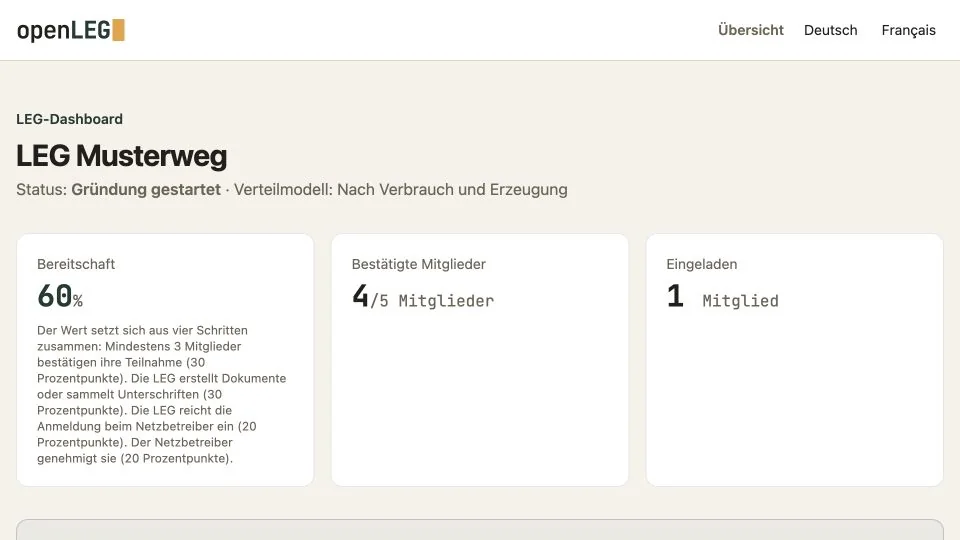
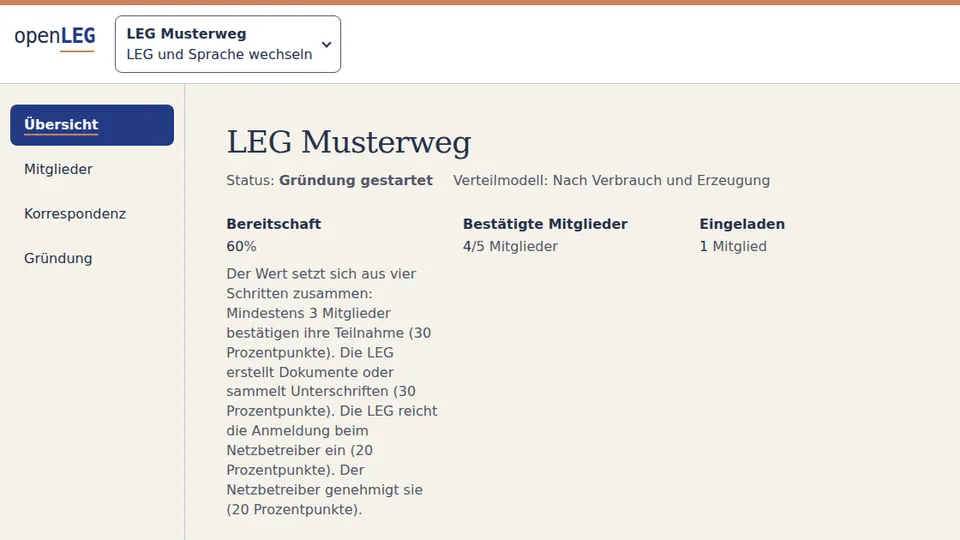
fix(site): regenerate embedded product media
Refresh the German and Swiss French dashboard animations and stills
from the current navy design using the app's fictional demo data.

Install Playwright and its Chromium browser in the development
environment, then run python -m scripts.capture_product_media.

Closes #998

diff --git a/scripts/capture_product_media.py b/scripts/capture_product_media.py
@@ -1,0 +1,177 @@
+# SPDX-License-Identifier: AGPL-3.0-or-later
+"""Refresh the public demo GIFs and stills from the repository root.
+
+In a development environment with the app requirements and Pillow installed,
+install Playwright and run `python -m playwright install chromium`. Then run
+`python -m scripts.capture_product_media`. The capture uses the checked-in
+styles and translations and serves requests through the Flask test client.
+The checked-in media were captured with Playwright 1.65.0 and Pillow 13.0.0.
+"""
+
+import os
+from io import BytesIO
+from pathlib import Path
+from unittest.mock import patch
+from urllib.parse import urlencode, urlsplit
+
+from PIL import Image
+from playwright.sync_api import sync_playwright
+
+ROOT = Path(__file__).resolve().parents[1]
+ASSET_DIR = ROOT / "static" / "images" / "product"
+ORIGIN = "http://localhost"
+DEMO_ROUTES = {
+    "resident-dashboard": "/dashboard/demo",
+    "municipality-dashboard": "/gemeinde/dashboard/demo",
+    "leg-formation": "/leg/dashboard/demo",
+}
+VIEWPORT = {"width": 1120, "height": 630}
+OUTPUT_SIZE = (960, 540)
+FRAME_DURATIONS_MS = (1100, 1100, 1100, 400)
+
+
+def serve_demo_request(route, client):
+    """Serve demo pages, their same-origin assets and the local calculator."""
+    request = route.request
+    url = urlsplit(request.url)
+    allowed_get = request.method == "GET" and (
+        url.path in DEMO_ROUTES.values()
+        or url.path.startswith("/static/")
+        or url.path == "/favicon.ico"
+    )
+    # The calculator only evaluates the numbers prefilled by the resident demo.
+    calculate = (
+        request.method == "POST"
+        and url.path == "/api/calculate_savings"
+        and urlsplit(request.headers.get("referer", "")).path
+        == DEMO_ROUTES["resident-dashboard"]
+    )
+    if f"{url.scheme}://{url.netloc}" != ORIGIN or not (allowed_get or calculate):
+        route.abort()
+        return
+
+    response = client.open(
+        url.path,
+        method=request.method,
+        query_string=url.query,
+        data=request.post_data_buffer,
+        content_type=request.headers.get("content-type"),
+    )
+    route.fulfill(
+        status=response.status_code,
+        headers=dict(response.headers),
+        body=response.get_data(),
+    )
+
+
+def open_demo(browser_page, name, locale, **query):
+    params = urlencode(dict(lang=locale, **query))
+    response = browser_page.goto(f"{ORIGIN}{DEMO_ROUTES[name]}?{params}")
+    if (
+        response is None
+        or not response.ok
+        or browser_page.locator("html").get_attribute("lang") != locale
+        or not browser_page.locator(".product-shell h1").is_visible()
+    ):
+        raise RuntimeError(f"Could not render {name} in {locale}")
+
+
+def screenshot(page, selector=None, *, top=16):
+    if selector:
+        page.locator(selector).evaluate(
+            """(element, top) => {
+                element.scrollIntoView({block: 'start', behavior: 'instant'});
+                window.scrollBy({top: -top, behavior: 'instant'});
+            }""",
+            top,
+        )
+    page.evaluate("document.fonts.ready")
+    with Image.open(BytesIO(page.screenshot(animations="disabled"))) as image:
+        return image.convert("RGB").resize(OUTPUT_SIZE, Image.Resampling.LANCZOS)
+
+
+def capture_flow(page, name, locale):
+    open_demo(page, name, locale)
+    opening = screenshot(page)
+    if name == "resident-dashboard":
+        details = screenshot(page, 'section[aria-labelledby="checks-title"]')
+        page.locator("#calc-btn").click()
+        page.locator("#savings-result").wait_for()
+        page.mouse.move(0, 0)
+        action = screenshot(page, "#savings-result", top=300)
+    elif name == "municipality-dashboard":
+        details = screenshot(page, 'section[aria-labelledby="interest-summary-title"]')
+        action = screenshot(page, 'section[aria-labelledby="steps-title"]')
+    else:
+        details = screenshot(
+            page, "#main-content [data-leg-workspace] section:first-of-type"
+        )
+        open_demo(page, name, locale, page="members")
+        action = screenshot(page)
+    return opening, details, action, opening
+
+
+def encode(frames):
+    animation = BytesIO()
+    first, *rest = (frame.quantize(colors=256) for frame in frames)
+    first.save(
+        animation,
+        format="GIF",
+        save_all=True,
+        append_images=rest,
+        duration=FRAME_DURATIONS_MS,
+    )
+    with Image.open(animation) as gif:
+        if gif.n_frames != len(frames) or animation.getbuffer().nbytes >= 5_000_000:
+            raise RuntimeError("GIF must contain four frames and stay under 5 MB")
+
+    still = BytesIO()
+    frames[0].save(still, format="WEBP", quality=80, method=6)
+    return animation.getvalue(), still.getvalue()
+
+
+def capture_all(browser):
+    # Isolate both import-time settings and requests from host credentials.
+    with patch.dict(os.environ, {"DATABASE_URL": "", "REDIS_URL": ""}, clear=True):
+        from app import create_app
+
+        app = create_app(
+            {
+                "TESTING": True,
+                "SITE_RELEASE_ENABLED": True,
+                "RATELIMIT_STORAGE_URI": "memory://",
+                "APP_BASE_URL": ORIGIN,
+            },
+            load_environment=False,
+            check_database=False,
+        )
+        client = app.test_client(use_cookies=False)
+        outputs = {}
+        for locale, directory in (("de-CH", ASSET_DIR), ("fr-CH", ASSET_DIR / "fr-CH")):
+            with browser.new_context(
+                viewport=VIEWPORT, locale=locale, service_workers="block"
+            ) as context:
+                page = context.new_page()
+                page.route("**/*", lambda route: serve_demo_request(route, client))
+                for name in DEMO_ROUTES:
+                    animation, still = encode(capture_flow(page, name, locale))
+                    outputs[directory / f"{name}.gif"] = animation
+                    outputs[directory / f"{name}-static.webp"] = still
+        return outputs
+
+
+def main():
+    """Capture both locales before replacing the checked-in media."""
+    with sync_playwright() as driver:
+        browser = driver.chromium.launch()
+        try:
+            outputs = capture_all(browser)
+        finally:
+            browser.close()
+    for path, data in outputs.items():
+        path.write_bytes(data)
+        print(f"{path.relative_to(ROOT)} ({len(data):,} bytes)")
+
+
+if __name__ == "__main__":
+    main()
